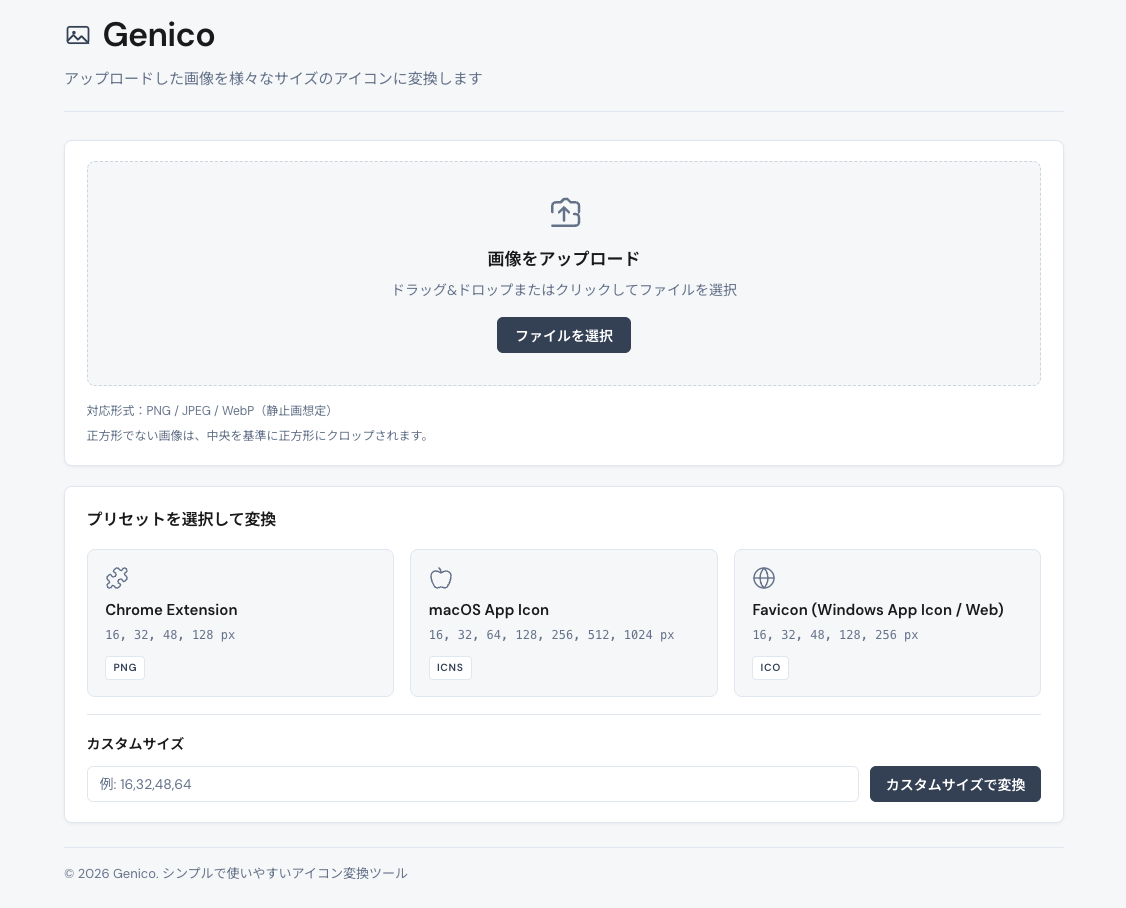
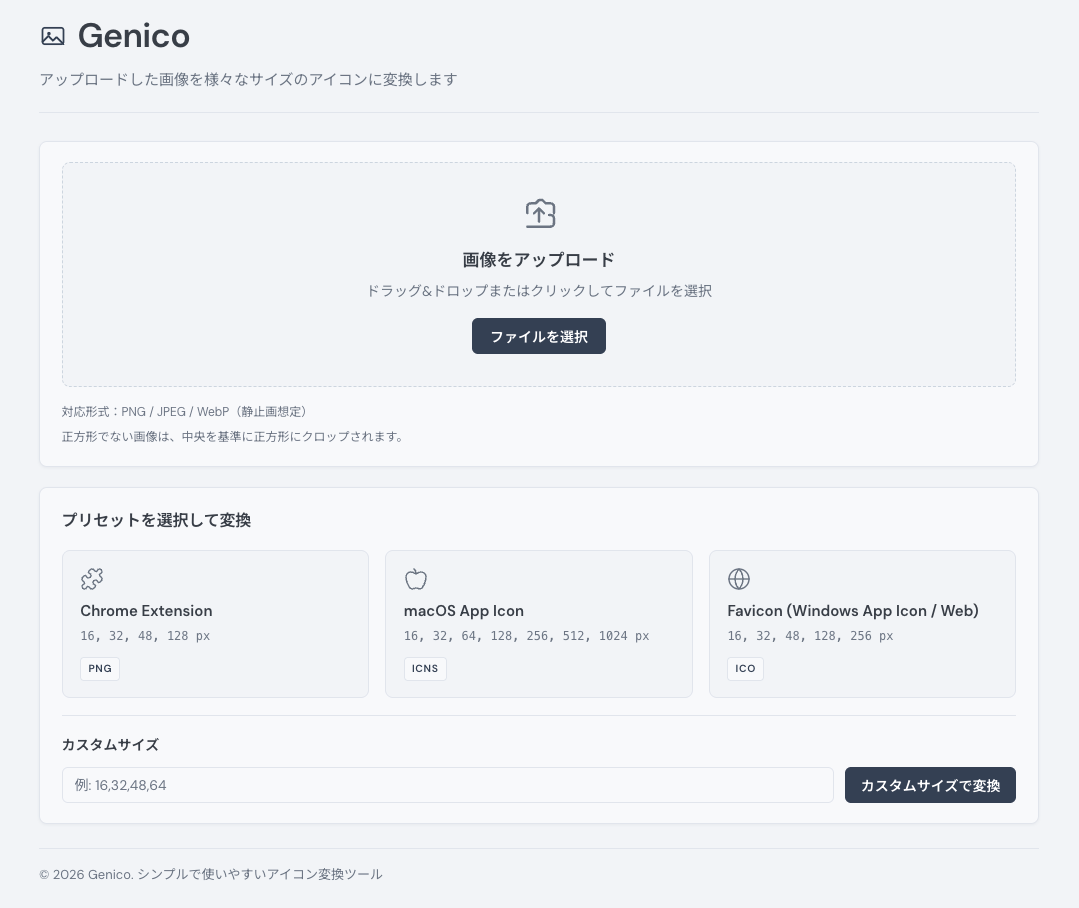
Update styles in style.css for improved light and dark mode support, add theme-color meta tags in index.html, and replace the introduction image with an updated version.

diff --git a/static/style.css b/static/style.css
@@ -1,23 +1,45 @@
 
 :root {
-    --bg: #f6f7f9;
-    --surface: #ffffff;
-    --text: #1a1a1a;
-    --text-muted: #64748b;
-    --border: #e2e8f0;
-    --border-strong: #cbd5e1;
+    color-scheme: light;
+    --bg: #f2f4f7;
+    --surface: #f8f9fb;
+    --text: #383e47;
+    --text-muted: #6b7584;
+    --border: #e2e6ed;
+    --border-strong: #cdd5df;
     --accent: #334155;
     --accent-hover: #1e293b;
     --accent-subtle: rgba(51, 65, 85, 0.08);
     --focus-ring: rgba(51, 65, 85, 0.2);
     --danger: #b91c1c;
-    --danger-bg: #fef2f2;
-    --danger-border: #fecaca;
+    --danger-bg: #f9f2f3;
+    --danger-border: #f0d5d8;
     --radius-sm: 6px;
     --radius-md: 8px;
-    --shadow-sm: 0 1px 2px rgba(15, 23, 42, 0.05);
-    --shadow-card: 0 1px 3px rgba(15, 23, 42, 0.06);
+    --shadow-sm: 0 1px 2px rgba(56, 62, 71, 0.045);
+    --shadow-card: 0 1px 3px rgba(56, 62, 71, 0.055);
     --font: "DM Sans", "Noto Sans JP", system-ui, sans-serif;
+}
+
+@media (prefers-color-scheme: dark) {
+    :root {
+        color-scheme: dark;
+        --bg: #171e27;
+        --surface: #1f2733;
+        --text: #cfd8e3;
+        --text-muted: #8b97a8;
+        --border: #323d4d;
+        --border-strong: #435061;
+        --accent: #475569;
+        --accent-hover: #64748b;
+        --accent-subtle: rgba(148, 163, 184, 0.12);
+        --focus-ring: rgba(148, 163, 184, 0.3);
+        --danger: #ea8b85;
+        --danger-bg: rgba(185, 28, 28, 0.14);
+        --danger-border: rgba(232, 146, 140, 0.28);
+        --shadow-sm: 0 1px 2px rgba(8, 12, 20, 0.28);
+        --shadow-card: 0 1px 4px rgba(8, 12, 20, 0.34);
+    }
 }
 
 * {

diff --git a/templates/index.html b/templates/index.html
@@ -3,6 +3,8 @@
 <head>
     <meta charset="UTF-8">
     <meta name="viewport" content="width=device-width, initial-scale=1.0">
+    <meta name="theme-color" content="#f2f4f7" media="(prefers-color-scheme: light)">
+    <meta name="theme-color" content="#171e27" media="(prefers-color-scheme: dark)">
     <title>Genico</title>
     <link rel="icon" type="image/x-icon" href="/static/favicon.ico">
     <link rel="preconnect" href="https://fonts.googleapis.com">
